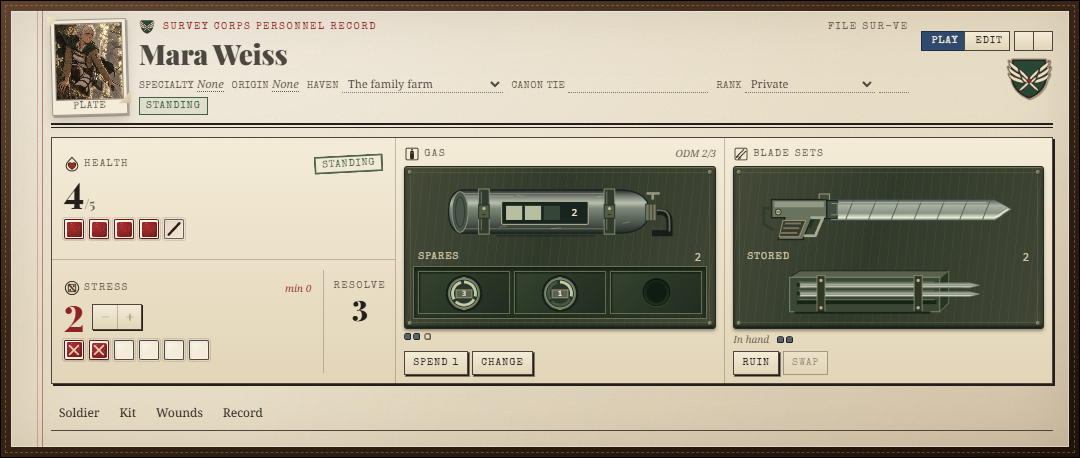
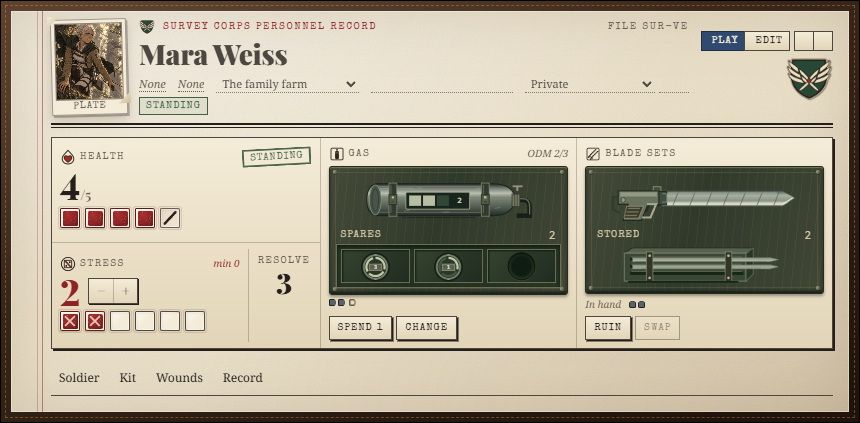
Tighten equipment header and retain one row at default sheet width

Changed region(s): [[0.0, 0.0, 0.9977, 1.0], [0.6047, 0.1537, 0.7558, 0.2151], [0.4535, 0.1537, 0.5442, 0.2151]]

diff --git a/foundry/static/styles/sheet.css b/foundry/static/styles/sheet.css
@@ -958,7 +958,7 @@
 /* ODM mechanisms fitted into a worn equipment cradle. */
 .wof-sheet .vitals { grid-template-columns: minmax(0,.8fr) minmax(0,.8fr) minmax(0,.55fr) minmax(0,1.5fr) minmax(0,1.5fr); }
 .wof-sheet .gasv, .wof-sheet .bladev { padding: 8px; }
-.wof-sheet .odm-rig { overflow: hidden; position: relative; width: 100%; min-width: 0; padding: 7px 8px 9px; border: 1px solid #252c20; border-radius: 3px;
+.wof-sheet .odm-rig { overflow: hidden; position: relative; width: 100%; min-width: 0; padding: 5px 6px 6px; border: 1px solid #252c20; border-radius: 3px;
   background: repeating-linear-gradient(96deg, #b4ae8510 0 1px, transparent 1px 9px), linear-gradient(110deg,#454a38,#303a2b 45%,#414635);
   box-shadow: inset 0 1px 1px #b4ac7b80, inset 0 -2px 3px #111c15, 0 2px 3px #29231970; }
 .wof-sheet .odm-rig::before { content: ''; position: absolute; inset: 5px; border: 1px solid #8b8d6338; pointer-events: none; }
@@ -966,27 +966,27 @@
 .wof-sheet .rig-rivet { position: absolute; width: 4px; height: 4px; border-radius: 50%; background: linear-gradient(120deg,#b5ae88,#404831); box-shadow: 0 1px 1px #131b11; }
 .wof-sheet .top-left { top: 3px; left: 3px; }.wof-sheet .top-right { top: 3px; right: 3px; }
 .wof-sheet .bottom-left { bottom: 3px; left: 3px; }.wof-sheet .bottom-right { bottom: 3px; right: 3px; }
-.wof-sheet .fitted-vessel, .wof-sheet .blade-assembly { position: relative; height: 76px; display: grid; align-items: center; }
-.wof-sheet .fitted-vessel svg, .wof-sheet .blade-assembly svg { max-height: 76px; }
+.wof-sheet .fitted-vessel, .wof-sheet .blade-assembly { position: relative; height: 56px; display: grid; align-items: center; }
+.wof-sheet .fitted-vessel svg, .wof-sheet .blade-assembly svg { max-height: 56px; }
 .wof-sheet .fitted-vessel { overflow: hidden; }
 .wof-sheet .rig-caption { display: flex; justify-content: space-between; align-items: center; font: 10px/1.4 var(--fl); letter-spacing: .1em; text-transform: uppercase; color: #d0c6a5; padding: 0 5px 2px; }
 .wof-sheet .rig-caption span:last-child { font: 12px monospace; }
 .wof-sheet .tank-bay { display: grid; grid-template-columns: repeat(3,minmax(0,1fr)); gap: 4px; padding: 4px; background: #17251980; border: 1px solid #697150; box-shadow: inset 0 2px 5px #0c190f; }
-.wof-sheet .tank-socket { min-width: 0; height: 43px; display: grid; place-items: center; background: linear-gradient(135deg,#35432f,#202c20); border: 1px solid #64704d; box-shadow: inset 1px 1px 2px #101c10; }
-.wof-sheet button.tank-cap { display: block; width: min(44px, 100%); height: 43px; min-height: 0; padding: 0; margin: 0; border: 0; background: transparent; box-shadow: none; cursor: pointer; }
+.wof-sheet .tank-socket { min-width: 0; height: 34px; display: grid; place-items: center; background: linear-gradient(135deg,#35432f,#202c20); border: 1px solid #64704d; box-shadow: inset 1px 1px 2px #101c10; }
+.wof-sheet button.tank-cap { display: block; width: min(35px, 100%); height: 34px; min-height: 0; padding: 0; margin: 0; border: 0; background: transparent; box-shadow: none; cursor: pointer; }
 .wof-sheet button.tank-cap svg { width: 100%; height: 100%; }
 .wof-sheet button.tank-cap:hover:not(:disabled) { filter: brightness(1.25); background: #7e8c5130; }
 .wof-sheet button.tank-cap:focus-visible { outline: 2px solid #e6d09a; outline-offset: 1px; }
 .wof-sheet button.tank-cap:disabled { cursor: default; }
 .wof-sheet .empty-socket { width: 29px; height: 29px; border-radius: 50%; background: radial-gradient(circle,#0f1c13 45%,#253721 60%,#0e190f 65%,#546040 70%,#23331e 77%); box-shadow: inset 0 2px 5px #070f09; }
 .wof-sheet .rig-empty-note { display: block; font: 10px var(--fb); color: #c9b995; text-align: center; padding-top: 3px; }
-.wof-sheet .blade-magazine { position: relative; height: 53px; display: grid; align-items: center; }
-.wof-sheet .blade-magazine > svg { max-height: 53px; }
+.wof-sheet .blade-magazine { position: relative; height: 43px; display: grid; align-items: center; }
+.wof-sheet .blade-magazine > svg { max-height: 43px; }
 .wof-sheet .equipment-status { display: flex; align-items: center; gap: 8px; }
 .wof-sheet .vitals .gasv .acts, .wof-sheet .vitals .bladev .acts { margin-top: auto; }
 .wof-sheet .rig-ghost { pointer-events: none; }
 .wof-sheet .vessel-out, .wof-sheet .gas-vent { position: absolute; inset: 0; }
-.wof-sheet .gas-vent { height: 76px !important; }
+.wof-sheet .gas-vent { height: 56px !important; }
 .wof-sheet .magazine-transfer { position: absolute; inset: 0; z-index: 2; }
 .wof-sheet .tank-swap .vessel-current { animation: odm-tank-in 850ms cubic-bezier(.2,.7,.3,1) both; }
 .wof-sheet .tank-swap .vessel-out { animation: odm-tank-out 700ms ease-in both; }
@@ -1015,7 +1015,7 @@
   .wof-sheet .odm-rig * { animation: none !important; }
   .wof-sheet .odm-rig .rig-ghost { display: none; }
 }
-@container wofsheet (max-width: 860px) {
+@container wofsheet (max-width: 700px) {
   .wof-sheet:not(.compact) .vitals { grid-template-columns: repeat(6,minmax(0,1fr)); }
   .wof-sheet:not(.compact) .vitals .vit { grid-column: span 2; padding: 8px; }
   .wof-sheet:not(.compact) .vitals .gasv, .wof-sheet:not(.compact) .vitals .bladev { grid-column: span 3; border-top: 1px solid var(--rule); }
@@ -1033,10 +1033,10 @@
 /* Health above Stress; Resolve belongs beside the Stress readout. */
 .wof-sheet .vitals { grid-template-columns: minmax(0,1.05fr) minmax(0,1fr) minmax(0,1fr); }
 .wof-sheet .body-vitals { display: grid; grid-template-rows: 1fr 1fr; min-width: 0; border-right: 1px solid var(--rule); }
-.wof-sheet .body-vitals .vit { padding: 10px 12px; border: 0; justify-content: center; gap: 5px; }
+.wof-sheet .body-vitals .vit { padding: 6px 8px; border: 0; justify-content: center; gap: 3px; }
 .wof-sheet .body-vitals .healthv { border-bottom: 1px solid var(--rule); }
 .wof-sheet .stress-resolve { display: grid; grid-template-columns: minmax(0,1fr) 72px; min-width: 0; }
-.wof-sheet .body-vitals .resolvev { border-left: 1px solid var(--rule); padding: 10px 8px; align-items: center; justify-content: start; margin: 10px 0; }
+.wof-sheet .body-vitals .resolvev { border-left: 1px solid var(--rule); padding: 6px; align-items: center; justify-content: start; margin: 6px 0; }
 .wof-sheet .resolvev .vhead { justify-content: center; }
 .wof-sheet:not(.compact) .body-vitals .vit .vhead,
 .wof-sheet:not(.compact) .body-vitals .vit > :last-child:not(.vhead) { margin-bottom: 0; }
@@ -1047,7 +1047,7 @@
 .wof-sheet.compact .body-vitals .vit { grid-column: auto; }
 .wof-sheet.compact .body-vitals .healthv { border-bottom: 1px solid var(--rule); }
 .wof-sheet.compact .body-vitals .resolvev { border-left: 1px solid var(--rule); }
-@container wofsheet (max-width: 860px) {
+@container wofsheet (max-width: 700px) {
   .wof-sheet:not(.compact) .vitals { grid-template-columns: repeat(2,minmax(0,1fr)); }
   .wof-sheet:not(.compact) .vitals > .body-vitals { grid-column: 1 / -1; border-right: 0; grid-template-rows: auto auto; }
   .wof-sheet:not(.compact) .vitals .body-vitals .vit { grid-column: auto; padding: 8px 12px; }

diff --git a/foundry/design/equipment-icons.md b/foundry/design/equipment-icons.md
@@ -27,3 +27,6 @@ This fixture validates rendering and motion, not live Foundry persistence or eng
 - Live Foundry interaction is not checked.
 
 Merge verification: main's Play/Edit header, portrait controls and hover-card styles are preserved. The full suite passes all 376 tests with six fixture files temporarily normalized to LF; their original bytes were restored afterward. Without that normalization, six existing string-replacement tests fail on this Windows checkout. TypeScript, Svelte and production build checks pass, and the regenerated equipment browser fixture passes.
+
+## Compact header follow-up
+The PC resource strip stays on one row at the default 860px window width, verified down to 760px. Below 700px of sheet container space it uses the stacked layout. Fitted equipment is 56px tall; spare caps are 34px and the blade magazine is 43px. Browser checks cover eight widths from 400 to 1080px, animations and resource actions. Production build passes with the existing wording sync warnings. Live Foundry verification remains outstanding.
